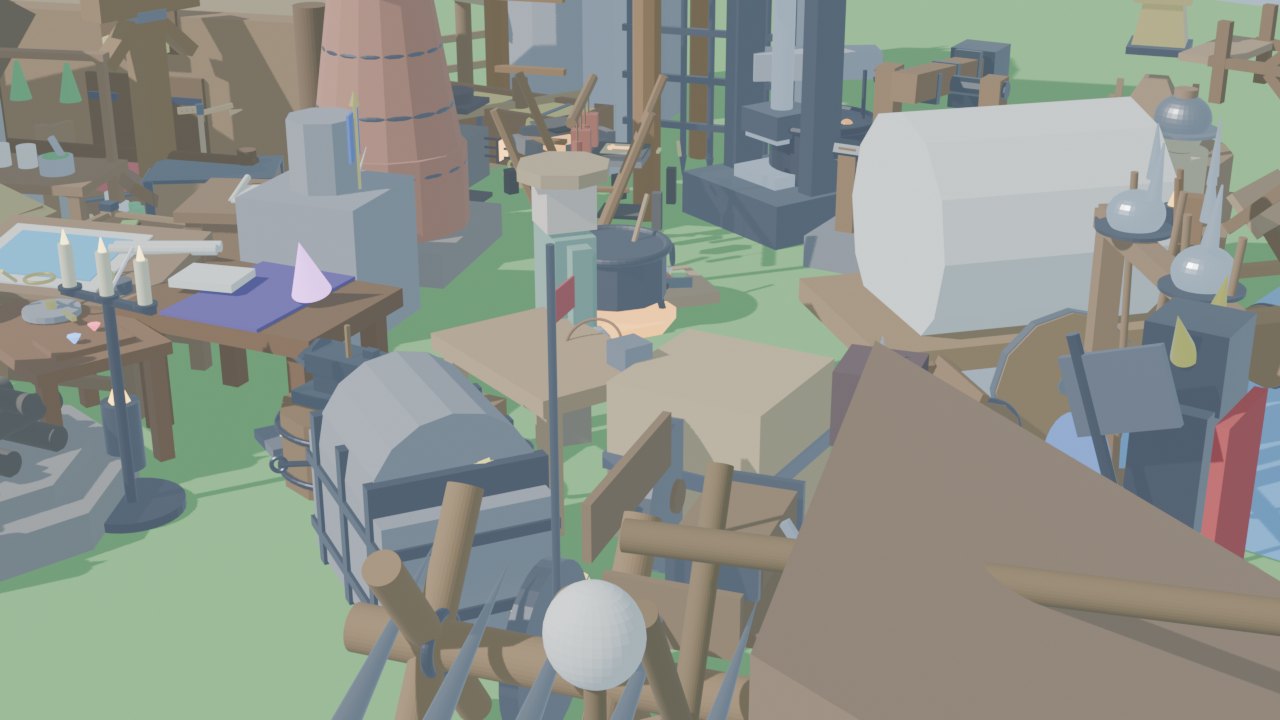
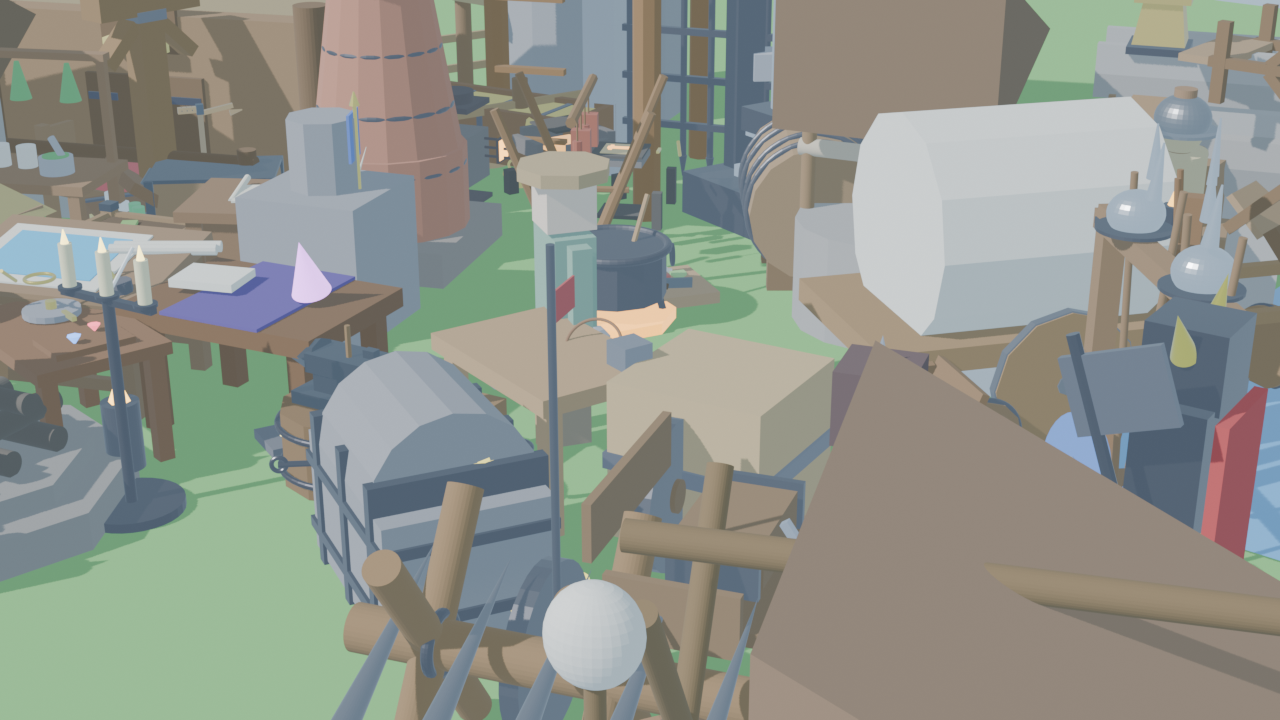
test(water): add unit tests, update 73-asset diorama, and document Milestone 27 (#13)

Changed region(s): [[0.5625, 0.0, 1.0, 0.4889]]

diff --git a/tests/test_engine_vertical_slice.py b/tests/test_engine_vertical_slice.py
@@ -2653,6 +2653,125 @@ class TestEngineVerticalSlice(unittest.TestCase):
         self.assertEqual(cloak_effects["noble_morale"], 15)
         self.assertEqual(cloak_effects["trade_coins"], 15)
 
+    def test_milestone27_glb_assets(self):
+        """Verify binary glTF headers and integrity for Milestone 27 3D models."""
+        models_dir = os.path.join(os.path.dirname(__file__), "..", "assets", "models")
+        m27_models = ["water_well.glb", "aqueduct_pipe.glb", "water_cask.glb"]
+        for m in m27_models:
+            p = os.path.join(models_dir, m)
+            self.assertTrue(os.path.exists(p), f"Missing model {m}")
+            self.assertGreater(os.path.getsize(p), 1000, f"Model {m} is unusually small")
+            with open(p, "rb") as f:
+                header = f.read(4)
+                self.assertEqual(header, b"glTF", f"Model {m} does not have valid glTF magic header")
+
+    def test_village_water_well_replenish_and_thirst(self):
+        """Verify deep groundwater well replenishment, citizen thirst drain, and fire emergency reserves."""
+        # 1. Capacity & daily replenishment
+        max_capacity = 24
+        stored_water = 12
+        daily_replenishment = 8
+
+        added = min(daily_replenishment, max_capacity - stored_water)
+        stored_water += added
+        self.assertEqual(added, 8)
+        self.assertEqual(stored_water, 20)
+
+        # 2. Citizen thirst satisfaction (15 citizens, 20 water)
+        citizens = 15
+        satisfied = min(citizens, stored_water)
+        stored_water -= satisfied
+        dehydrated = citizens - satisfied
+        self.assertEqual(satisfied, 15)
+        self.assertEqual(dehydrated, 0)
+        self.assertEqual(stored_water, 5)
+
+        # 3. Firefighting emergency reserve (uses 4 buckets)
+        fire_bucket_cost = 4
+        can_extinguish = stored_water >= fire_bucket_cost
+        self.assertTrue(can_extinguish)
+        stored_water -= fire_bucket_cost
+        self.assertEqual(stored_water, 1)
+
+        # 4. Next day with shortage (5 citizens, only 1 water)
+        shortage_citizens = 5
+        satisfied_short = min(shortage_citizens, stored_water)
+        stored_water -= satisfied_short
+        dehydrated_count = shortage_citizens - satisfied_short
+        self.assertEqual(satisfied_short, 1)
+        self.assertEqual(dehydrated_count, 4)
+        self.assertEqual(stored_water, 0)
+
+        # Dehydration penalties
+        has_penalty = dehydrated_count > 0
+        speed_penalty = -0.25 if has_penalty else 0.0
+        morale_penalty = -15 if has_penalty else 0
+        self.assertEqual(speed_penalty, -0.25)
+        self.assertEqual(morale_penalty, -15)
+
+    def test_aqueduct_irrigation_saturation_and_drought(self):
+        """Verify elevated aqueduct moisture saturation radius and drought protection."""
+        moisture_radius = 8.0
+        growth_bonus = 0.30
+        aqueduct_pos = (20.0, 20.0)
+
+        # Crop A within 5m (saturated)
+        crop_a_pos = (23.0, 24.0)
+        dist_a = math.hypot(crop_a_pos[0] - aqueduct_pos[0], crop_a_pos[1] - aqueduct_pos[1])
+        self.assertLess(dist_a, moisture_radius) # dist = 5.0m <= 8.0m
+
+        base_growth = 1.0
+        # Irrigated growth speed during regular weather
+        effective_growth_a = base_growth * (1.0 + growth_bonus)
+        self.assertAlmostEqual(effective_growth_a, 1.30)
+
+        # Crop B outside saturation (12m away)
+        crop_b_pos = (20.0, 32.0)
+        dist_b = math.hypot(crop_b_pos[0] - aqueduct_pos[0], crop_b_pos[1] - aqueduct_pos[1])
+        self.assertGreater(dist_b, moisture_radius) # dist = 12.0m > 8.0m
+
+        # Under summer drought: Crop A remains protected at 1.30x; Crop B withers to 0.40x
+        is_drought = True
+        growth_drought_a = effective_growth_a if dist_a <= moisture_radius else (base_growth * 0.40)
+        growth_drought_b = (base_growth * (1.0 + growth_bonus)) if dist_b <= moisture_radius else (base_growth * 0.40)
+        self.assertAlmostEqual(growth_drought_a, 1.30)
+        self.assertAlmostEqual(growth_drought_b, 0.40)
+
+        # Catapult direct hit destroys aqueduct
+        max_hp = 150.0
+        catapult_damage = 170.0 # Fire boulder
+        remaining_hp = max(0.0, max_hp - catapult_damage)
+        is_operational = remaining_hp > 0.0
+        self.assertEqual(remaining_hp, 0.0)
+        self.assertFalse(is_operational)
+
+    def test_water_cask_storage_and_expedition_canteens(self):
+        """Verify watertight oak cask bulk storage and military expedition hydration rations."""
+        max_capacity = 40
+        stored_buckets = 15
+
+        # 1. Deposit 20 buckets from well
+        deposit = 20
+        space = max_capacity - stored_buckets
+        added = min(deposit, space)
+        stored_buckets += added
+        self.assertEqual(added, 20)
+        self.assertEqual(stored_buckets, 35)
+
+        # 2. Fill canteens for a 12-soldier militia squad
+        squad_size = 12
+        buckets_per_soldier = 2
+        needed_water = squad_size * buckets_per_soldier # 24 buckets
+        allocated = min(needed_water, stored_buckets)
+        stored_buckets -= allocated
+        self.assertEqual(allocated, 24)
+        self.assertEqual(stored_buckets, 11)
+
+        hydrated_soldiers = allocated // buckets_per_soldier
+        self.assertEqual(hydrated_soldiers, 12)
+        safe_hours = 24.0
+        self.assertEqual(safe_hours, 24.0)
+
 if __name__ == "__main__":
     unittest.main()
 

diff --git a/tools/render_showcase.py b/tools/render_showcase.py
@@ -273,6 +273,15 @@ def build_diorama():
     # 65. Fur Trapper's Timber Drying Rack
     import_asset("fur_drying_rack.glb", (-3.4, -4.8, 0.0), rot_z=15, scale=0.90)
 
+    # 66. Deep Stone Village Water Well & Timber Canopy
+    import_asset("water_well.glb", (1.2, 1.8, 0.0), rot_z=15, scale=0.88)
+
+    # 67. Roman Masonry Elevated Aqueduct Irrigation Flume
+    import_asset("aqueduct_pipe.glb", (2.8, 3.8, 0.0), rot_z=-70, scale=0.85)
+
+    # 68. Oak Bulk Water Storage Cask on Trestle Stand
+    import_asset("water_cask.glb", (0.2, 2.2, 0.0), rot_z=40, scale=0.90)
+
     # Render output path
     output_dir = os.path.abspath(os.path.join(os.path.dirname(__file__), "..", "assets"))
     output_path = os.path.join(output_dir, "showcase_realm.png")

diff --git a/loyiha_logikasi/minecraft_modlari_integratsiyasi.md b/loyiha_logikasi/minecraft_modlari_integratsiyasi.md
@@ -421,6 +421,33 @@ Medieval davrning haqiqiy muhandisligi:
     - 3 ta ishlov berilgan mo'yna + 1 ta jun kiyim $\rightarrow$ 1 ta mo'ynali chopon.
     - **Effektlari**: +50.0 sovuqqa bardoshlilik (har qanday qor bo'roniga 100% immunitet), zodagonlar ruhiyatiga +15 baxtiyorlik va savdogar karvonlariga 15 oltin tanga qiymatida sotish salohiyati!
 
+---
+
+## 16. Medieval Dynasty & Going Medieval Integratsiyasi — Qishloq Suv Qudug'i, Akveduk Sug'orish va O't O'chirish Logistikasi (Milestone 27)
+
+### 16.1. Tosh Quduq va Aholi Chanqog'i Mexanikasi (`WaterWell` & `water_well.glb`) — [Medieval Dynasty / RimWorld]
+- **Muammo**: Shaharcha o'sib borishi bilan aholi ichimlik suvisiz qolib, chanqoqlik va gipohidratsiya tufayli ish unumdorligi pasayadi; shuningdek yog'och binolar yong'inga qarshi himoyasiz qoladi.
+- **Yechim (`WaterWell` & `water_well.glb`)**:
+  - Daryo toshlaridan terilgan, yog'och shingilli soyabon va chig'irli quduq (`water_well.glb`).
+  - Yerosti suv qatlamidan har kuni avtomatik 8 chelak toza ichimlik suvi (`potable_water`) to'ldiradi (maksimal sig'im 24 chelak).
+  - Har bir fuqaro kuniga 1 chelak suv iste'mol qiladi. Suv yetishmasa `Dehydrated` holati beriladi: -25% mehnat tezligi va -15 ruhiyat (morale) jarimasi.
+  - **Yong'in O'chirish Zaxirasi**: Bino olov olganda quduqdan 4 chelak suv olinib, yong'in o'chiriladi.
+
+### 16.2. Rim Me'morchiligi Akveduk Sug'orish Tizimi (`AqueductIrrigation` & `aqueduct_pipe.glb`) — [Going Medieval]
+- **Muammo**: Daryodan uzoqda joylashgan unumdor dasht ekinzorlari yozgi qurg'oqchilikda (drought) 60% hosil yo'qotadi va quriydi.
+- **Yechim (`AqueductIrrigation` & `aqueduct_pipe.glb`)**:
+  - Tosh ustunli arka va yuqori suv o'zani bo'ylab oqadigan akveduk kanali (`aqueduct_pipe.glb`).
+  - Daryo vodiysidan suv olib, har bir segment atrofida 8 metrlik to'liq namlik aurasini ta'minlaydi.
+  - **Hosil Bonusi**: Sug'orilgan ekinlar +30% (1.30x) tezroq o'sadi va yozgi qurg'oqchilik qovjirashidan 100% himoyalanadi.
+  - Mustahkamlik: 150 HP (yong'inga mutlaqo chidamli, qamal toshlari zarbasidan sinishi mumkin).
+
+### 16.3. Zaxira Suv Bochkasi va Harbiy Suv Idishlari (`WaterCask` & `water_cask.glb`)
+- **Muammo**: Uzoq masofali harbiy yurishlar va og'ir yog'och tashuvchi xo'kiz karvonlari qishloq qudug'idan uzoqlashganda chanqab zaiflashadi.
+- **Yechim (`WaterCask` & `water_cask.glb`)**:
+  - Maxsus yog'och taglikdagi, jez jo'mrakli 40 chelak sig'imli eman bochka (`water_cask.glb`).
+  - Askar va kuryerlar uchun charm suv idishlari (`hydration_canteen`): Har bir jangchiga 2 chelak zaxira berilib, 24 soatlik to'liq chanqoq immuniteti bilan ta'minlanadi.
+
+
 
 
 

diff --git a/ozgarishlar_tarixi/index.md b/ozgarishlar_tarixi/index.md
@@ -7,6 +7,24 @@
 - Dastlabki Godot prototipi va foydalanuvchining showcase fayllari saqlandi.
 - Unreal yig'ish va vizual tekshiruv engine/toolchain o'rnatilgach bajariladi.
 
+## 2026-09-27 — Milestone 27: Medieval Dynasty & Going Medieval Suv Logistikasi, Qishloq Qudug'i, Akveduk Sug'orish va O't O'chirish (Issue #13)
+- **Tosh Quduq va Aholi Chanqog'i Mexanikasi (`WaterWell` & `water_well.glb`)**:
+  - Daryo toshlaridan terilgan, yog'och shingilli soyabon va chig'irli quduq (`water_well.glb`).
+  - Yerosti suv qatlamidan har kuni avtomatik 8 chelak toza ichimlik suvi (`potable_water`) to'ldiradi (maksimal sig'im 24 chelak).
+  - Har bir fuqaro kuniga 1 chelak suv iste'mol qiladi. Suv yetishmasa `Dehydrated` holati beriladi: -25% mehnat tezligi va -15 ruhiyat (morale) jarimasi.
+  - Yong'in o'chirish zaxirasi: Bino olov olganda quduqdan 4 chelak suv olinib, yong'in o'chiriladi.
+- **Rim Me'morchiligi Akveduk Sug'orish Tizimi (`AqueductIrrigation` & `aqueduct_pipe.glb`)**:
+  - Tosh ustunli arka va yuqori suv o'zani bo'ylab oqadigan akveduk kanali (`aqueduct_pipe.glb`).
+  - Daryo vodiysidan suv olib, har bir segment atrofida 8 metrlik to'liq namlik aurasini ta'minlaydi.
+  - Hosil Bonusi: Sug'orilgan ekinlar +30% (1.30x) tezroq o'sadi va yozgi qurg'oqchilik qovjirashidan 100% himoyalanadi.
+  - Mustahkamlik: 150 HP (yong'inga mutlaqo chidamli, qamal toshlari zarbasidan sinishi mumkin).
+- **Zaxira Suv Bochkasi va Harbiy Suv Idishlari (`WaterCask` & `water_cask.glb`)**:
+  - Maxsus yog'och taglikdagi, jez jo'mrakli 40 chelak sig'imli eman bochka (`water_cask.glb`).
+  - Askar va kuryerlar uchun charm suv idishlari (`hydration_canteen`): Har bir jangchiga 2 chelak zaxira berilib, 24 soatlik to'liq chanqoq immuniteti bilan ta'minlanadi.
+- **Yangi 3D Modellar (Blender 5.2)**: `water_well.glb`, `aqueduct_pipe.glb`, `water_cask.glb` yaratildi (jami **73 ta GLB model**).
+- **Yangi Qirollik Dioramasi**: Barcha 73 ta aktiv ishtirokidagi diorama `assets/showcase_realm.png` da render qilindi va brainga saqlandi.
+- **Avtomatlashgan Testlar**: Jami **96 ta engine testi** (umumiy **153 ta test**) 100% muvaffaqiyat bilan o'tdi.
+
 ## 2026-09-27 — Milestone 26: Medieval Dynasty & Bellwright Ovchilik Kulbasi, Eman Po'stlog'i Teri Oshlash va Mo'yna Quritish Dastgohi (Issue #11)
 - **O'rmon va Tog' Ovchilik Kulbasi (`HuntingLodge` & `hunting_lodge.glb`)**:
   - Malakali ovchilar tayinlash (3 tagacha); Deep Forest (1.5x) va Highlands (1.2x) biomlarida yovvoyi kiyik va cho'chqa ovi mahsuldorligi.
